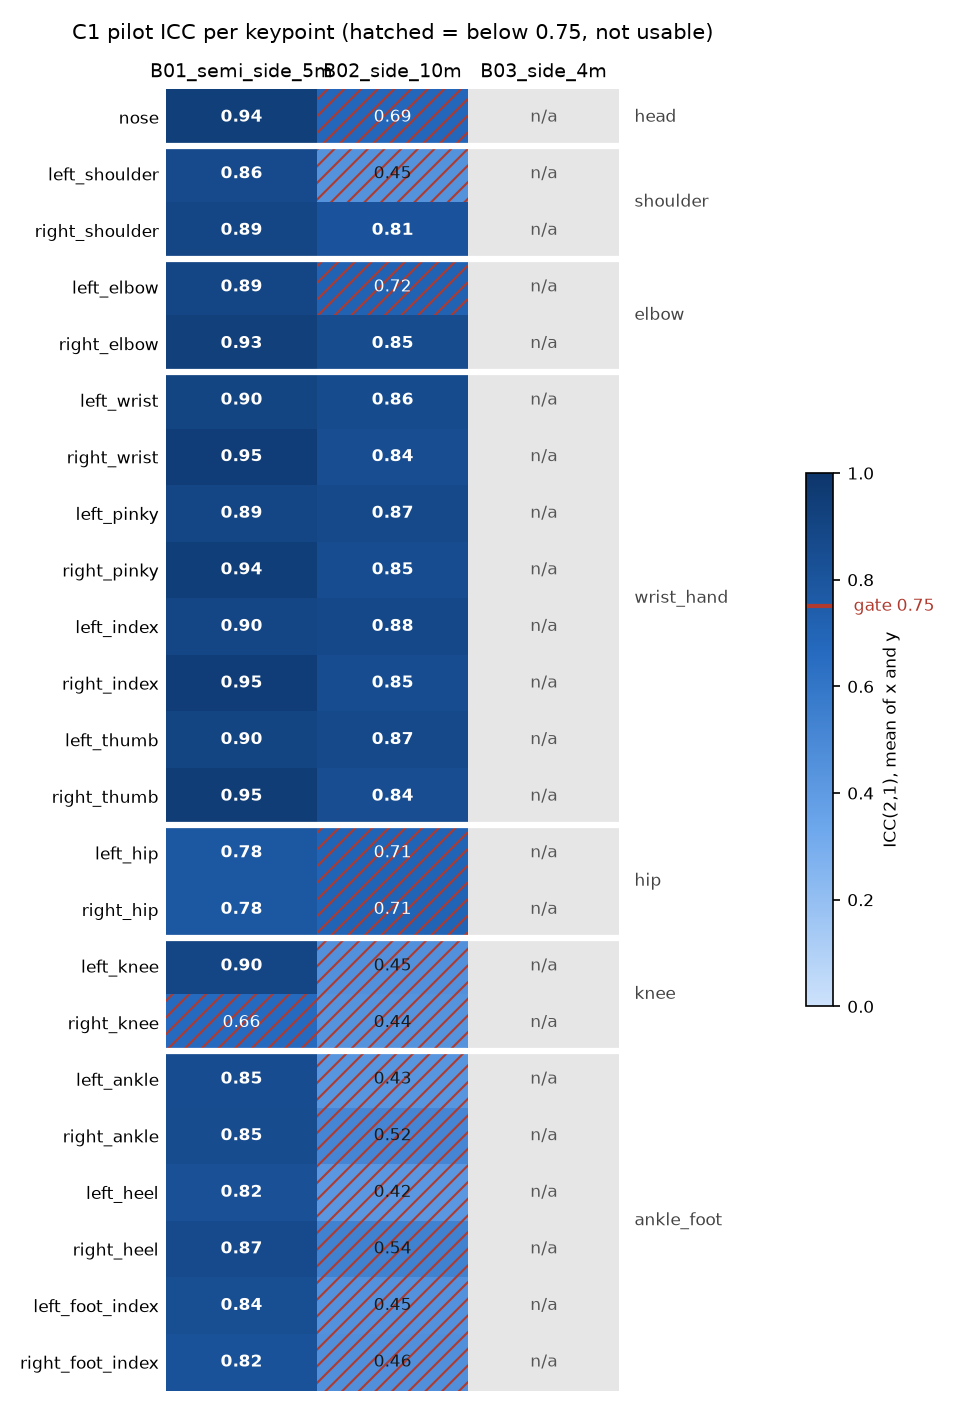
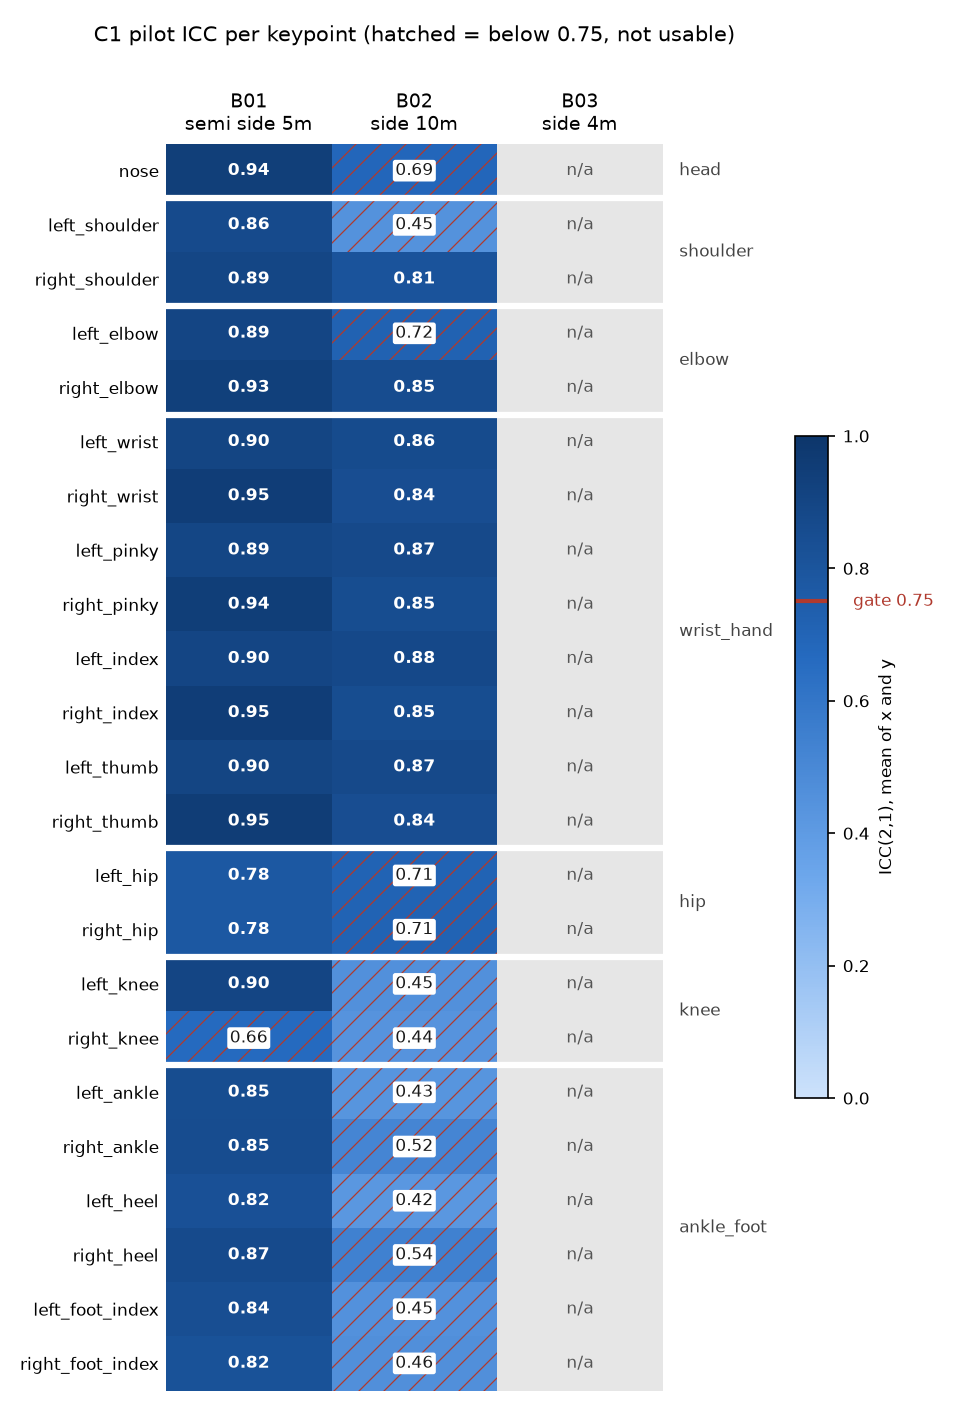
Update README and ICC summary with pilot ICC details; enhance reliability.py for better output formatting

diff --git a/components/c1_pose/src/c1_pose/reliability.py b/components/c1_pose/src/c1_pose/reliability.py
@@ -236,6 +236,7 @@ def plot_heatmap(results, out_png):
     # One-hue sequential ramp: light = low ICC, dark = high ICC.
     cmap = LinearSegmentedColormap.from_list("icc", ["#cde2fb", "#6da7ec", "#256abf", "#0d366b"])
     cmap.set_bad("#e6e6e6")
+    plt.rcParams["hatch.linewidth"] = 0.6
     fig, ax = plt.subplots(figsize=(6.4, 0.34 * len(table) + 1.6))
     im = ax.imshow(np.ma.masked_invalid(values), cmap=cmap, vmin=0, vmax=1, aspect="auto")
 
@@ -246,13 +247,16 @@ def plot_heatmap(results, out_png):
                 ax.text(j, i, "n/a", ha="center", va="center", fontsize=8, color="#555555")
                 continue
             if v < GATE:   # hatch = below the gate, so it does not rely on colour alone
-                ax.add_patch(plt.Rectangle((j - 0.5, i - 0.5), 1, 1, fill=False, hatch="///",
+                ax.add_patch(plt.Rectangle((j - 0.5, i - 0.5), 1, 1, fill=False, hatch="//",
                                            edgecolor="#b03a2e", linewidth=0))
-            ax.text(j, i, f"{v:.2f}", ha="center", va="center", fontsize=8,
-                    color="white" if v >= 0.55 else "#1a1a1a",
-                    fontweight="bold" if v >= GATE else "normal")
+                ax.text(j, i, f"{v:.2f}", ha="center", va="center", fontsize=8, color="#1a1a1a",
+                        bbox=dict(boxstyle="round,pad=0.15", facecolor="white", edgecolor="none"))
+            else:
+                ax.text(j, i, f"{v:.2f}", ha="center", va="center", fontsize=8, color="white",
+                        fontweight="bold")
 
-    ax.set_xticks(range(len(table.columns)), table.columns, fontsize=9)
+    labels = [g.replace("_", " ").replace(" ", "\n", 1) for g in table.columns]
+    ax.set_xticks(range(len(table.columns)), labels, fontsize=9)
     ax.xaxis.tick_top()
     ax.set_yticks(range(len(table)), [f"{k}" for k in table.index], fontsize=8)
     ax.tick_params(length=0)
@@ -267,7 +271,7 @@ def plot_heatmap(results, out_png):
     for spine in ax.spines.values():
         spine.set_visible(False)
 
-    cbar = fig.colorbar(im, ax=ax, fraction=0.04, pad=0.28)
+    cbar = fig.colorbar(im, ax=ax, fraction=0.05, pad=0.2)
     cbar.ax.axhline(GATE, color="#b03a2e", linewidth=2)
     cbar.set_label("ICC(2,1), mean of x and y", fontsize=8)
     cbar.ax.tick_params(labelsize=8)
@@ -311,10 +315,16 @@ def summary_markdown(results, group_info, exclude=()):
              f"A keypoint is usable when its ICC is at least {GATE} (bands: poor < 0.50, moderate < 0.75, "
              "good < 0.90, excellent >= 0.90).",
              "", "## Groups", "",
-             "| group | deliveries | fps |", "|---|---|---|"]
+             "| group | deliveries | release window usable | fps |", "|---|---|---|---|"]
     for g in groups:
         fps = ", ".join(f"{f:g}" for f in group_info[g]["fps"])
-        lines.append(f"| {g} | {group_info[g]['n']} | {fps} |")
+        n_ok = group_info[g]["n"] - len(group_info[g]["bad_release"])
+        lines.append(f"| {g} | {group_info[g]['n']} | {n_ok} | {fps} |")
+    bad = [c for g in groups for c in group_info[g]["bad_release"]]
+    if bad:
+        lines += ["", "Release window not usable (bowling wrist missing in more than 20 % of it, "
+                  "so the release could not be found and the delivery is left out of every keypoint): "
+                  + ", ".join(bad) + ". A group left with fewer than 3 deliveries gets no ICC (n/a)."]
     if exclude:
         lines += ["", "Excluded by hand: " + ", ".join(exclude) + " (different camera view from the "
                   "rest of its group in the notes; to be corrected in the metadata)."]
@@ -335,7 +345,7 @@ def summary_markdown(results, group_info, exclude=()):
                  + (", ".join(all_usable) or "none"))
 
     lines += ["", "## Limitations", "",
-              f"- This is a pilot: {MIN_DELIVERIES}-4 deliveries per group, so the confidence intervals "
+              f"- This is a pilot with {MIN_DELIVERIES} deliveries per group, so the confidence intervals "
               "in icc_pilot.csv are wide and single values should not be over-read.",
               "- The B03 group mixes 30 fps and 60 fps clips. Resampling to 101 time points puts them on "
               "the same time axis, but frame rate will be a separate condition in the full study.",
@@ -379,21 +389,27 @@ def run_study(metadata_csv, processed_dir, out_dir, checks_dir=None, raw_dir=Non
 
     rows, group_info = [], {}
     for label, clips in groups.items():
-        aligned = []
+        aligned, bad_release = [], []
         for clip in clips.itertuples():
             norm_csv = Path(processed_dir) / f"{clip.clip_id}_norm.csv"
             tracks = load_tracks(norm_csv)
             wrist = bowling_wrist(clip.notes)
             release = find_release(tracks[:, wrist, 1])
             aligned.append(align_delivery(tracks, release, float(clip.fps)))
+            # the wrist that defines release must itself be usable in the window
+            if np.isnan(aligned[-1][wrist]).all():
+                bad_release.append(clip.clip_id)
             print(f"  {label}: {clip.clip_id} release at frame {release} "
-                  f"({release / float(clip.fps):.2f} s, {clip.fps:g} fps)")
+                  f"({release / float(clip.fps):.2f} s, {clip.fps:g} fps)"
+                  + ("  <- release window not usable" if clip.clip_id in bad_release else ""))
             if checks_dir is not None:
                 videos = sorted(Path(raw_dir).glob(f"{clip.clip_id}.*"))
                 if videos:
                     save_release_check(videos[0], norm_csv, release,
                                        Path(checks_dir) / f"{clip.clip_id}_release.jpg")
-        group_info[label] = {"n": len(clips), "fps": sorted({round(float(f)) for f in clips["fps"]})}
+        # nominal frame rate (phones record 59.2-59.8 for "60 fps")
+        group_info[label] = {"n": len(clips), "fps": sorted({30 * round(float(f) / 30) for f in clips["fps"]}),
+                             "bad_release": bad_release}
         rows += group_icc(label, aligned)
 
     results = pd.DataFrame(rows)

diff --git a/components/c1_pose/experiments/icc_summary.md b/components/c1_pose/experiments/icc_summary.md
@@ -6,11 +6,13 @@ Each group is one bowler filmed several times from the same camera angle and dis
 
 ## Groups
 
-| group | deliveries | fps |
-|---|---|---|
-| B01_semi_side_5m | 3 | 30 |
-| B02_side_10m | 3 | 59, 60 |
-| B03_side_4m | 3 | 30, 59 |
+| group | deliveries | release window usable | fps |
+|---|---|---|---|
+| B01_semi_side_5m | 3 | 3 | 30 |
+| B02_side_10m | 3 | 3 | 60 |
+| B03_side_4m | 3 | 2 | 30, 60 |
+
+Release window not usable (bowling wrist missing in more than 20 % of it, so the release could not be found and the delivery is left out of every keypoint): B03_D01_side_4m. A group left with fewer than 3 deliveries gets no ICC (n/a).
 
 Excluded by hand: B01_D01_semi_side_5m (different camera view from the rest of its group in the notes; to be corrected in the metadata).
 
@@ -35,7 +37,7 @@ Excluded by hand: B01_D01_semi_side_5m (different camera view from the rest of i
 
 ## Limitations
 
-- This is a pilot: 3-4 deliveries per group, so the confidence intervals in icc_pilot.csv are wide and single values should not be over-read.
+- This is a pilot with 3 deliveries per group, so the confidence intervals in icc_pilot.csv are wide and single values should not be over-read.
 - The B03 group mixes 30 fps and 60 fps clips. Resampling to 101 time points puts them on the same time axis, but frame rate will be a separate condition in the full study.
 - ICC here measures pose-estimation reliability together with the bowler's natural variation between deliveries; the two cannot be separated with this design.
 - The 101 time points of one keypoint path are not independent of each other, so the confidence intervals are likely narrower than they should be.

diff --git a/components/c1_pose/README.md b/components/c1_pose/README.md
@@ -37,7 +37,7 @@ src/c1_pose/
   probe_clips.py   measures fps/length/size of every clip -> data/metadata.csv
   compare_models.py  lite vs full vs heavy summaries -> experiments/model_comparison.csv/.png/.md
   pipeline.py      run_pipeline(): all C1 steps for one video (used by the FastAPI endpoint)
-  reliability.py   (to do) ICC per keypoint/axis/condition, 0.75 gate
+  reliability.py   pilot ICC(2,1) per keypoint/axis/group, 0.75 gate -> experiments/icc_*
 scripts/
   download_models.py   downloads the lite/full/heavy .task files into models/
 experiments/       model comparison and pilot ICC results (CSV / plots only, no video)
